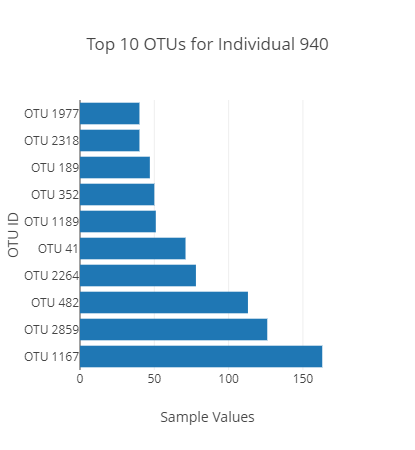
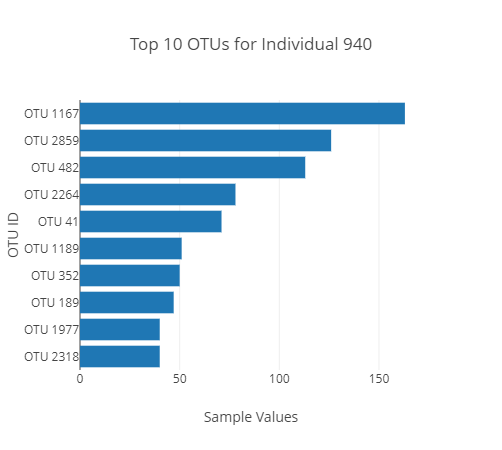
commit

diff --git a/static/js/app.js b/static/js/app.js
@@ -71,7 +71,7 @@ function updateChart(data, selectedValue) {
     }));
 
     // Sort the data by sample values in descending order
-    top10Data.sort((a, b) => b.sample_value - a.sample_value);
+    top10Data.sort((a, b) => a.sample_value - b.sample_value);
 
     const trace = {
         x: top10Data.map(d => d.sample_value),
